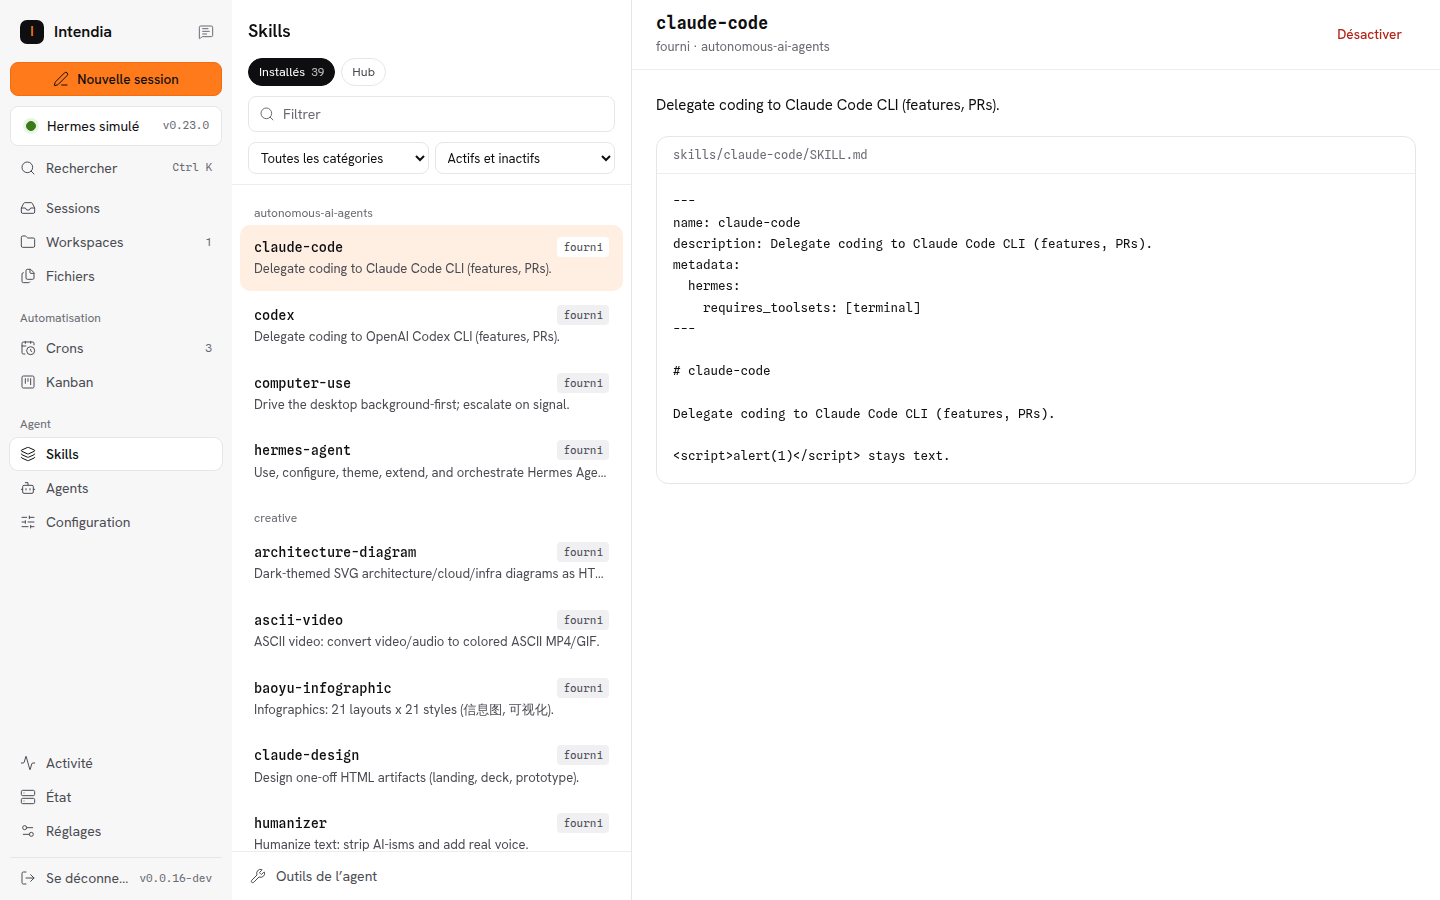
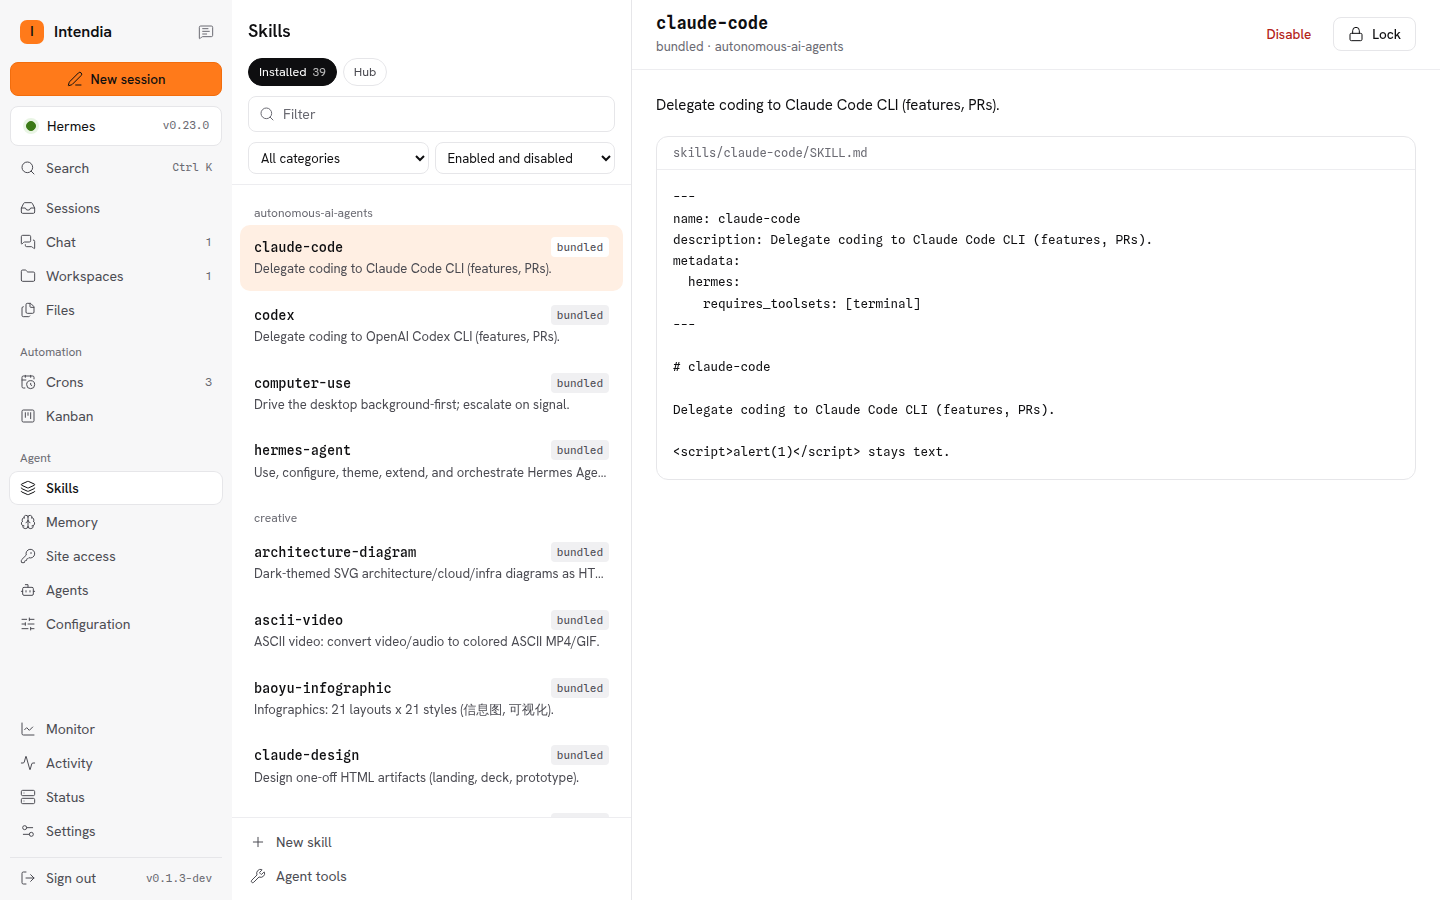
chore: v0.1.3 (README screenshots in English; fake-hermes FAKE_LANG=en for them)

diff --git a/apps/fake-hermes/src/index.ts b/apps/fake-hermes/src/index.ts
@@ -70,6 +70,9 @@ export { FAKE_PLUGIN_CATALOG } from './plugins.js';
 export { FAKE_MCP_CATALOG } from './mcp-catalog.js';
 import { SkillStore } from './skills.js';
 
+/** FAKE_LANG=en: English texts for the README screenshots (default and file scenes only). */
+const EN = process.env.FAKE_LANG === 'en';
+
 /**
  * Recording the fake replays by default and the server tests rely on: the one made on a used
  * instance (a session, a cron, a provider key). Newer recordings come from an empty container
@@ -361,16 +364,16 @@ class Simulator {
     }
     if (/roman/i.test(run.input)) return this.finish(run, run.romanText ?? '');
     if (/modifie/i.test(run.input)) return this.playModified(run, step);
-    if (/fichier/i.test(run.input)) return this.playFile(run, step);
+    if (/fichier/i.test(run.input) || (EN && /\bfile\b/i.test(run.input))) return this.playFile(run, step);
     if (/coffre/i.test(run.input)) return this.playVault(run, step);
     if (/fond/i.test(run.input)) return this.playBackground(run, step);
     if (/delegue/i.test(run.input)) return this.playDelegate(run, step);
     if (/t[aâ]ches/i.test(run.input)) return this.playTodos(run, step);
     if (/artefact/i.test(run.input)) return this.playArtifact(run, step);
     await sleep(step);
-    this.push(run, { event: 'message.delta', delta: 'Je regarde ' });
+    this.push(run, { event: 'message.delta', delta: EN ? 'Looking at ' : 'Je regarde ' });
     await sleep(step);
-    this.push(run, { event: 'message.delta', delta: 'le dossier.' });
+    this.push(run, { event: 'message.delta', delta: EN ? 'the folder.' : 'le dossier.' });
     await sleep(step);
     this.push(run, { event: 'tool.started', tool: 'terminal', preview: 'ls -la', call_id: 'call_1' });
     await sleep(step);
@@ -381,15 +384,15 @@ class Simulator {
     }
     this.addMessage(run.sessionId, 'tool', 'AGENTS.md\nfiles\ninbox\nsessions', { tool_name: 'terminal' });
     await sleep(step);
-    this.finish(run, 'Je regarde le dossier. Il contient `AGENTS.md`, `files`, `inbox` et `sessions`.');
+    this.finish(run, EN ? 'Looking at the folder. It holds `AGENTS.md`, `files`, `inbox` and `sessions`.' : 'Je regarde le dossier. Il contient `AGENTS.md`, `files`, `inbox` et `sessions`.');
   }
 
   private async playFile(run: SimRun, step: number) {
     const dir = /dans (\S+\/sessions\/[^/\s]+)\/\./.exec(run.instructions)?.[1] ?? '/workspace/sessions/inconnue';
-    const path = `${dir}/rapport.md`;
+    const path = `${dir}/${EN ? 'report' : 'rapport'}.md`;
     if (path.startsWith(`${this.filesRoot}/`)) {
       mkdirSync(path.slice(0, path.lastIndexOf('/')), { recursive: true });
-      writeFileSync(path, '# Rapport\n\nFichier écrit par fake-hermes.\n\n| Magasin | Ventes |\n|---|---|\n| Frouard | 1 240 |\n| Houdemont | 980 |\n');
+      writeFileSync(path, EN ? '# Report\n\nFile written by fake-hermes.\n\n| Store | Sales |\n|---|---|\n| Frouard | 1,240 |\n| Houdemont | 980 |\n' : '# Rapport\n\nFichier écrit par fake-hermes.\n\n| Magasin | Ventes |\n|---|---|\n| Frouard | 1 240 |\n| Houdemont | 980 |\n');
     }
     await sleep(step);
     this.push(run, { event: 'tool.started', tool: 'write_file', preview: path, call_id: 'call_1' });
@@ -397,7 +400,7 @@ class Simulator {
     this.push(run, { event: 'tool.completed', tool: 'write_file', duration: 0.05, error: false, preview: path, call_id: 'call_1' });
     this.addMessage(run.sessionId, 'tool', `Wrote ${path}`, { tool_name: 'write_file' });
     await sleep(step);
-    this.finish(run, `Voilà le rapport : \`${path}\`. Il reprend les ventes des deux magasins.`);
+    this.finish(run, EN ? `Here is the report: \`${path}\`. It covers the sales of both stores.` : `Voilà le rapport : \`${path}\`. Il reprend les ventes des deux magasins.`);
   }
 
   /** "modifie" scenario: write_file then a V4A patch that updates that file and adds another one. */
